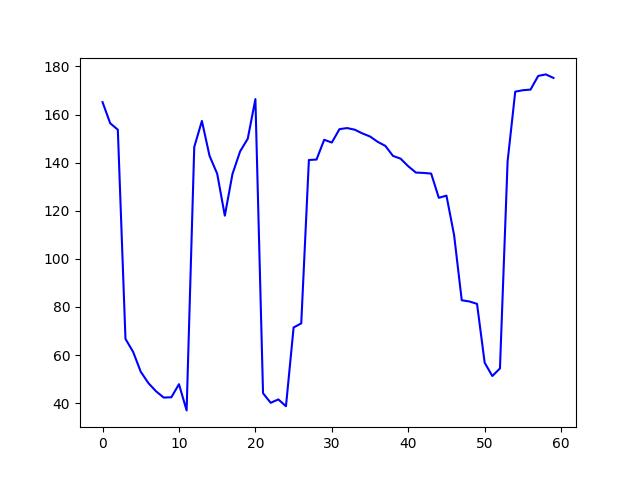
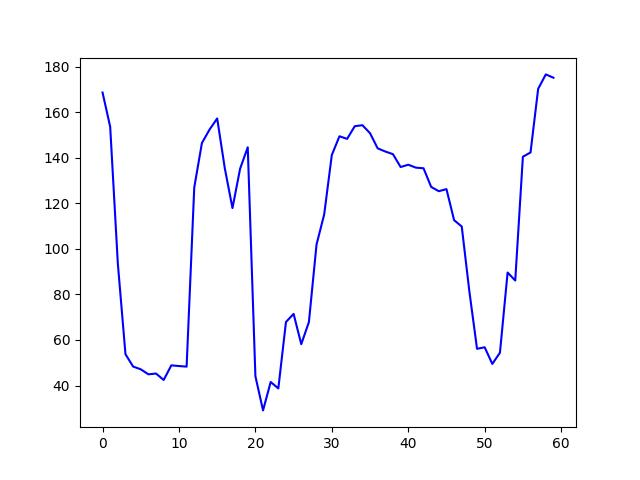
need to count all samples and angles

diff --git a/margin.py b/margin.py
@@ -12,8 +12,13 @@ from scipy.signal import savgol_filter
 
 import seaborn as sns
 
+import os
+
 # filename = "./videos/JJ1.mp4"
 filenames = ["./videos/JJ1.mp4", "./videos/StephCurry.mp4"]
+path = './videos'
+# filenames = os.listdir(path)
+
 
 
 # cap = cv2.VideoCapture("Steph Curry.mp4")
@@ -33,6 +38,7 @@ right_shoulder_angles = []
 right_wrist_angles = []
 right_hip_angles = []
 right_knee_angles = []
+
 ## setup mediapipe instance
 images = []
 y_values =[]
@@ -40,6 +46,7 @@ for filename in filenames:
     # clear list 
     images = []
     left_elbow_angles.clear()
+    right_elbow_angles.clear()
     times = []
     time = 0
     time_for_seaborn= []    
@@ -169,18 +176,19 @@ for filename in filenames:
     ###### sampling #####
     # samples are indices that will be filtered out
     samples = np.random.choice(np.arange(len(times)), size=len(times) - 60, replace=False) # want to fix the number of frames at 60
-    print(samples)
-    sampled_left_elbow_angles = []
+    # print(samples)
+    sampled_left_elbow_angles = []        
     for i, angle in enumerate(left_elbow_angles):
         if i not in samples:
             # print(i)
             sampled_left_elbow_angles.append(angle)            
     sampled_times = np.arange(60) # mostly 30 fps and most given videos are of 2secs
-    print(sampled_left_elbow_angles)
+    # print(sampled_left_elbow_angles)
     sampled_left_elbow_angles = np.array(sampled_left_elbow_angles)
     print(f'After sampling: {len(sampled_times)}')
     plt.plot(sampled_times, sampled_left_elbow_angles, color='b', label = 'sampled_left_elbow')
     plt.savefig(f"./output-images/{filename[9:-4]}'s sampled-unsmooth-angle-vs-time.jpg")
+    ###### sampling #####
     
     ##### smooth a curve #####
     # cubic_interpolation_model = interp1d(times, left_elbow_angles, kind = "cubic")
@@ -226,113 +234,37 @@ for filename in filenames:
     plt.savefig(f"./output-images/{filename[9:-4]}'s sampled smoothed angle-vs-time.jpg")
     plt.show(block=False)
     plt.close()
-
-
-    ################ show video and graph ######################
-    # filename = './Steph Curry.mp4'
-    cap = cv2.VideoCapture(filename) # need this because cap is released before
-
-    try:
-        frames = int(cap.get(cv2.cv.CV_CAP_PROP_FRAME_COUNT))
-        width  = int(cap.get(cv2.cv.CV_CAP_PROP_FRAME_WIDTH))
-        height = int(cap.get(cv2.cv.CV_CAP_PROP_FRAME_HEIGHT))
-    except AttributeError:
-        frames = int(cap.get(cv2.CAP_PROP_FRAME_COUNT))
-        width  = int(cap.get(cv2.CAP_PROP_FRAME_WIDTH))
-        height = int(cap.get(cv2.CAP_PROP_FRAME_HEIGHT))
-
-    fig, ax = plt.subplots(1,1)
-    plt.ion()
-    plt.show(block=False)
     
-    
-
-    #Setup a dummy path
-    # x = np.linspace(0,width,frames)
-    x = times
-    # y = x/2. + 100*np.sin(2.*np.pi*x/1200)
-    # y = Y_
-    y = -Y_
-
-
-    # y is array. convert it to list    
-    y_values += list(y)
-        
-    # need this to plot graph as the original. otherwise upside down
-    left_elbow_angles = (-np.array(left_elbow_angles)).tolist()
-    y = savgol_filter(left_elbow_angles, window_length=30, polyorder=7)
-
-    print(len(images))
-    print(len(times))
-    print(len(y))
-
-    # for i in enumerate(times): 
-    for i, image in enumerate(images):
-        fig.clear()
-        flag, frame = cap.read()
-
-        
-        plt.imshow(image)
-        # this line is to match graph width to image width
-        times = times/np.max(times)*width
-        # plt.plot(x,y,'k-', lw=2)
-        plt.plot(times, y, 'k-', lw=2) # smooth one
-        plt.plot(times, left_elbow_angles, 'g-', lw=2) # original one
-        plt.plot(times[i-1],y[i-1],'or') # red dot for each angle of smooth one
-        plt.pause(1e-5)
-        
-        
-        
-        # # Make detection
-        # results = pose.process(image) # image here is RGB
-
-        # # Recolor back to BGR
-        # image.flags.writeable = True
-        # image = cv2.cvtColor(image, cv2.COLOR_RGB2BGR)
-        if cv2.waitKey(10) & 0xFF == ord('q'):
-            break        
-    ################ show video and graph ######################        
 
     
 
 
 # visualize margin   
 sns.set()
-
+y_values = np.negative(y_values)
 print(f'y_values length: {len(y_values)}')
 y_values = np.array(y_values).reshape(2, -1)
-y_values = np.mean(y_values, axis=0)
+y_means = np.mean(y_values, axis=0)
+y_std = np.std(y_values, axis=0)
+y_diff = y_values[0] - y_values[1]
 
-print(f'y_values.shape: {y_values.shape}')
+# save data
+with open(r'./data/elbowMargin', 'w') as fp:
+    fp.writelines(y_values)
 
-x_axis = np.arange(len(y_values))   
-plt.plot(x_axis, y_values, 'b-', label='y_value')
-plt.fill_between(x_axis, y_values-10, y_values+10, color = 'b', alpha=0.2)
+
+print("y_std.shape: {}".format(y_std.shape))
+print(f'y_values.shape: {y_means.shape}')
+print("y_values: {}".format(y_values))
+print("y_diff: {}".format(y_diff))
+
+
+x_axis = np.arange(len(y_means))   
+plt.plot(x_axis, y_means, 'b-', label='y_value')
+plt.fill_between(x_axis, y_means-y_std, y_means+y_std, color = 'b', alpha=0.2)
 
 plt.legend(title='margin')
 plt.ioff()
 # plt.savefig
 plt.show(block=False)
 plt.savefig("./output-images/margin.jpg")
-
-
-
-
-# def show_margin(y_values):
-#     sns.set()
-    
-#     print(f'y_values length: {len(y_values)}')
-#     y_values = np.array(y_values).reshape(2, -1)
-#     y_values = np.mean(y_values, axis=0)
-
-#     print(f'y_values.shape: {y_values.shape}')
-
-#     x_axis = np.arange(len(y_values))   
-#     plt.plot(x_axis, y_values, 'b-', label='y_value')
-#     plt.fill_between(x_axis, y_values-10, y_values+10, color = 'b', alpha=0.2)
-
-#     plt.legend(title='test')
-#     plt.show()
-
-
-# show_margin(y_values)  
